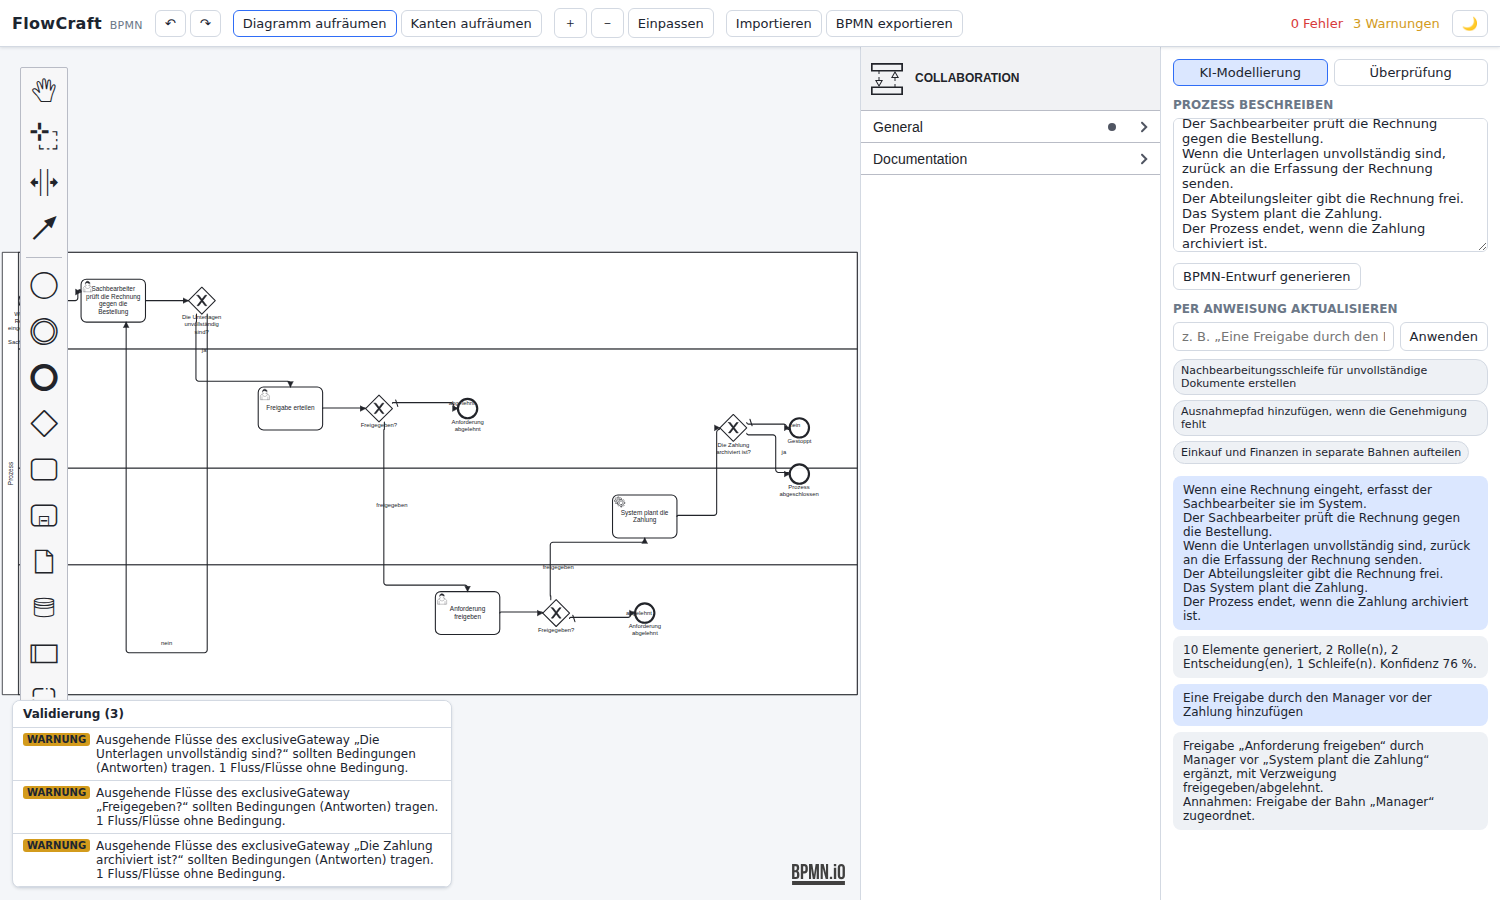
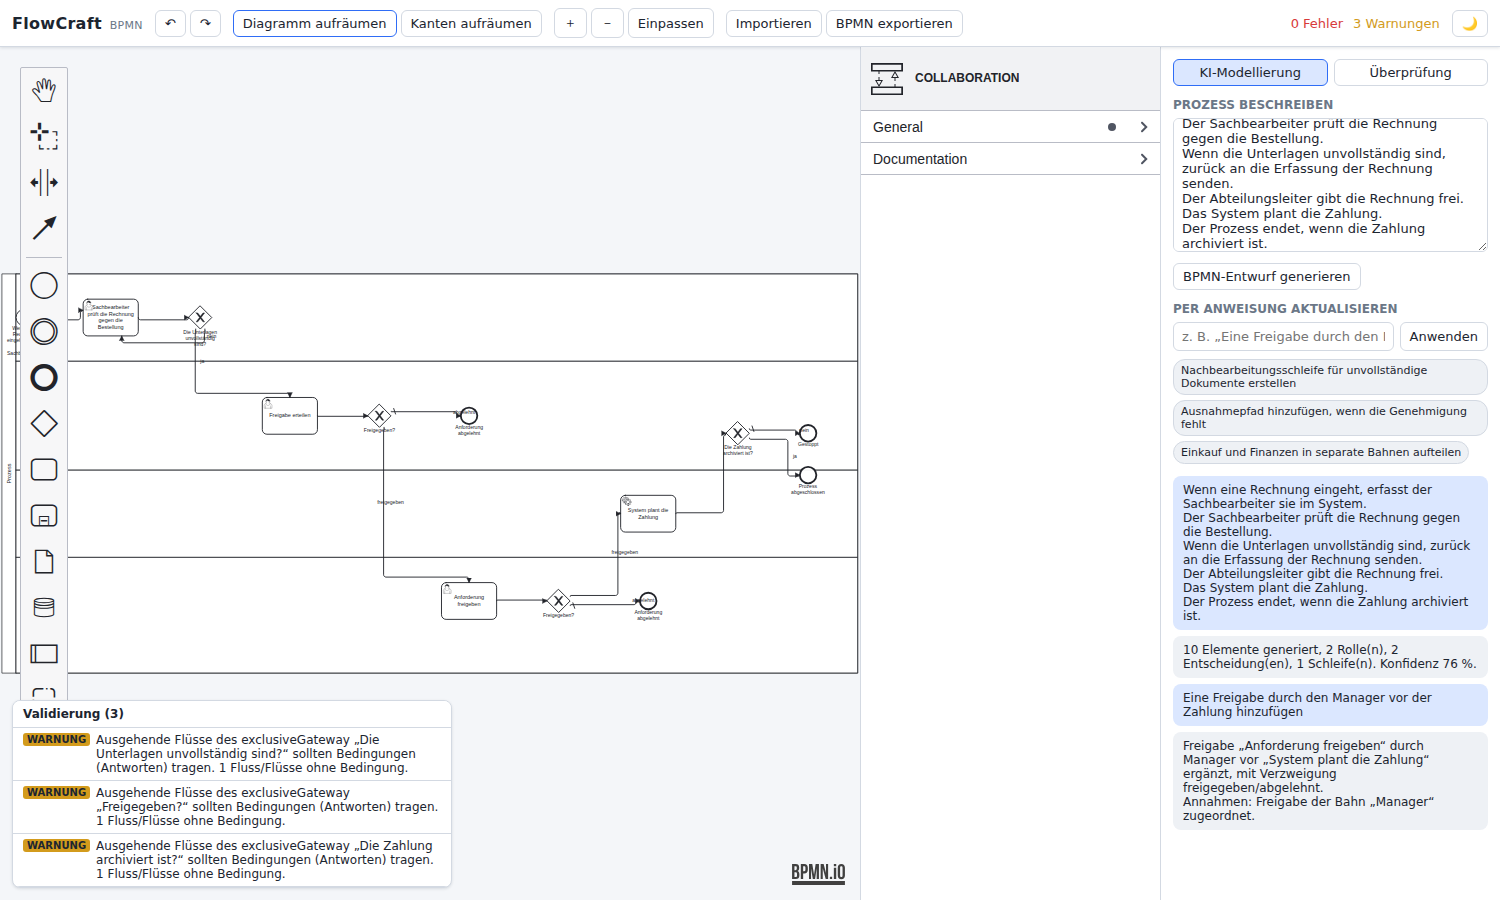
A*-routed loops + wider routing corridors (Signavio-style back edges)
- Back edges are now A*-routed bottom→bottom through the reserved band below the
  content, dodging shapes and other flows via the occupancy field, instead of a
  rigid full-width channel. Loops hook neatly into the target from below rather
  than running a long line along the diagram edge.
- Grid extended downward to include the loop band; layout uses wider rank
  separation (clean vertical corridors) and more crossing-reduction sweeps.
- Back-edge regression test now asserts loops don't overlap each other and stay
  orthogonal (instead of fixed channel rows). 40 tests pass.

Claude-Session: https://claude.ai/code/session_014hKtQHBPVBhXtcd1pk8v9w

diff --git a/src/core/routing/router.ts b/src/core/routing/router.ts
@@ -87,10 +87,13 @@ export function routeScope(
     e.waypoints = routeForward(model, e, grid, occupancy, opts, outIndex, inIndex);
     stampPath(occupancy, grid, e.waypoints, opts);
   }
-  backEdges.forEach((e, k) => {
-    e.waypoints = routeBackEdge(model, e, contentBottom, opts, k, outIndex, inIndex);
+  // Back edges last, A*-routed bottom→bottom so they dip into the reserved band
+  // below the content (and around shapes/forward edges via occupancy) and rise
+  // back into the target — instead of a rigid full-width channel.
+  for (const e of backEdges) {
+    e.waypoints = routeBackEdge(model, e, grid, occupancy, opts, outIndex, inIndex, contentBottom);
     stampPath(occupancy, grid, e.waypoints, opts);
-  });
+  }
 }
 
 /** Mark the cells a routed path occupies (and their neighbours) as costly. */
@@ -178,7 +181,7 @@ function buildGrid(nodes: FlowNode[], opts: RouteOptions): Grid {
     maxX = Math.max(maxX, n.bounds.x + n.bounds.width);
     maxY = Math.max(maxY, n.bounds.y + n.bounds.height);
   }
-  const pad = 80;
+  const pad = 200; // room below content for loop channels + around for detours
   const originX = Math.floor((minX - pad) / step) * step;
   const originY = Math.floor((minY - pad) / step) * step;
   const W = Math.ceil((maxX + pad - originX) / step) + 1;
@@ -386,15 +389,21 @@ function routeForward(
   return cleanupAnchors(simplifyPath(pts), startPort, endPort);
 }
 
-/** Deterministic back-edge route folded into its own channel below content. */
+/**
+ * Back-edge (loop) routing. Bottom→bottom ports, A*-routed so the loop dips
+ * into the reserved band below the content and rises back into the target,
+ * dodging shapes and (via occupancy) other flows — the Signavio-style loop that
+ * avoids the long edge-hugging line a rigid channel produces.
+ */
 function routeBackEdge(
   model: BpmnModel,
   e: Edge,
-  contentBottom: number,
+  g: Grid,
+  occupancy: Float32Array,
   opts: RouteOptions,
-  channelIndex: number,
   outIdx: Record<string, number>,
   inIdx: Record<string, number>,
+  contentBottom: number,
 ): Waypoint[] {
   const s = model.nodes[e.source];
   const t = model.nodes[e.target];
@@ -402,14 +411,22 @@ function routeBackEdge(
   const inCount = siblingCount(model.edges, t.id, "target");
   const startPort = pointOnSide(s.bounds, "bottom", fanFrac(outIdx[e.id] ?? 0, outCount));
   const endPort = pointOnSide(t.bounds, "bottom", fanFrac(inIdx[e.id] ?? 0, inCount));
-  const channelY = contentBottom + opts.channelGap * (channelIndex + 1);
-  const pts: Point[] = [
-    startPort,
-    { x: startPort.x, y: channelY },
-    { x: endPort.x, y: channelY },
-    endPort,
-  ];
-  return simplifyPath(pts);
+
+  // Bias A* into the reserved band: a temporary penalty field that makes the
+  // rows between the content and the band cheap to traverse downward.
+  const stubStart = { x: startPort.x, y: startPort.y + opts.gridStep };
+  const stubEnd = { x: endPort.x, y: endPort.y + opts.gridStep };
+  const blocked = g.blocked(s.id, t.id);
+  const path = astar(g, blocked, occupancy, toCell(stubStart, g), toCell(stubEnd, g), 2, opts.turnPenalty);
+
+  let pts: Point[];
+  if (path) {
+    pts = [startPort, ...path, endPort];
+  } else {
+    const channelY = contentBottom + opts.channelGap;
+    pts = [startPort, { x: startPort.x, y: channelY }, { x: endPort.x, y: channelY }, endPort];
+  }
+  return cleanupAnchors(simplifyPath(pts), startPort, endPort);
 }
 
 function directOrthogonal(a: Point, b: Point, from: Side): Point[] {

diff --git a/test/routing.test.ts b/test/routing.test.ts
@@ -135,7 +135,9 @@ describe("orthogonal router", () => {
     autoLayout(m, "P");
     const backs = Object.values(m.edges).filter((e) => e.isBackEdge);
     expect(backs.length).toBe(2);
-    const channelYs = backs.map((b) => Math.max(...b.waypoints!.map((p) => p.y)));
-    expect(channelYs[0]).not.toBe(channelYs[1]);
+    // the two loops must not run on top of each other
+    expect(collinearOverlap(backs[0].waypoints!, backs[1].waypoints!)).toBeLessThan(60);
+    // and both stay orthogonal
+    for (const b of backs) expect(isOrthogonal(b.waypoints!)).toBe(true);
   });
 });

diff --git a/src/core/layout/layered.ts b/src/core/layout/layered.ts
@@ -34,9 +34,9 @@ export interface LayoutOptions {
 }
 
 export const DEFAULT_LAYOUT: LayoutOptions = {
-  rankSep: 80,
-  nodeSep: 50,
-  sweeps: 6,
+  rankSep: 110, // wider columns leave clean vertical routing corridors
+  nodeSep: 55,
+  sweeps: 8,
   marginX: 60,
   marginY: 60,
 };
